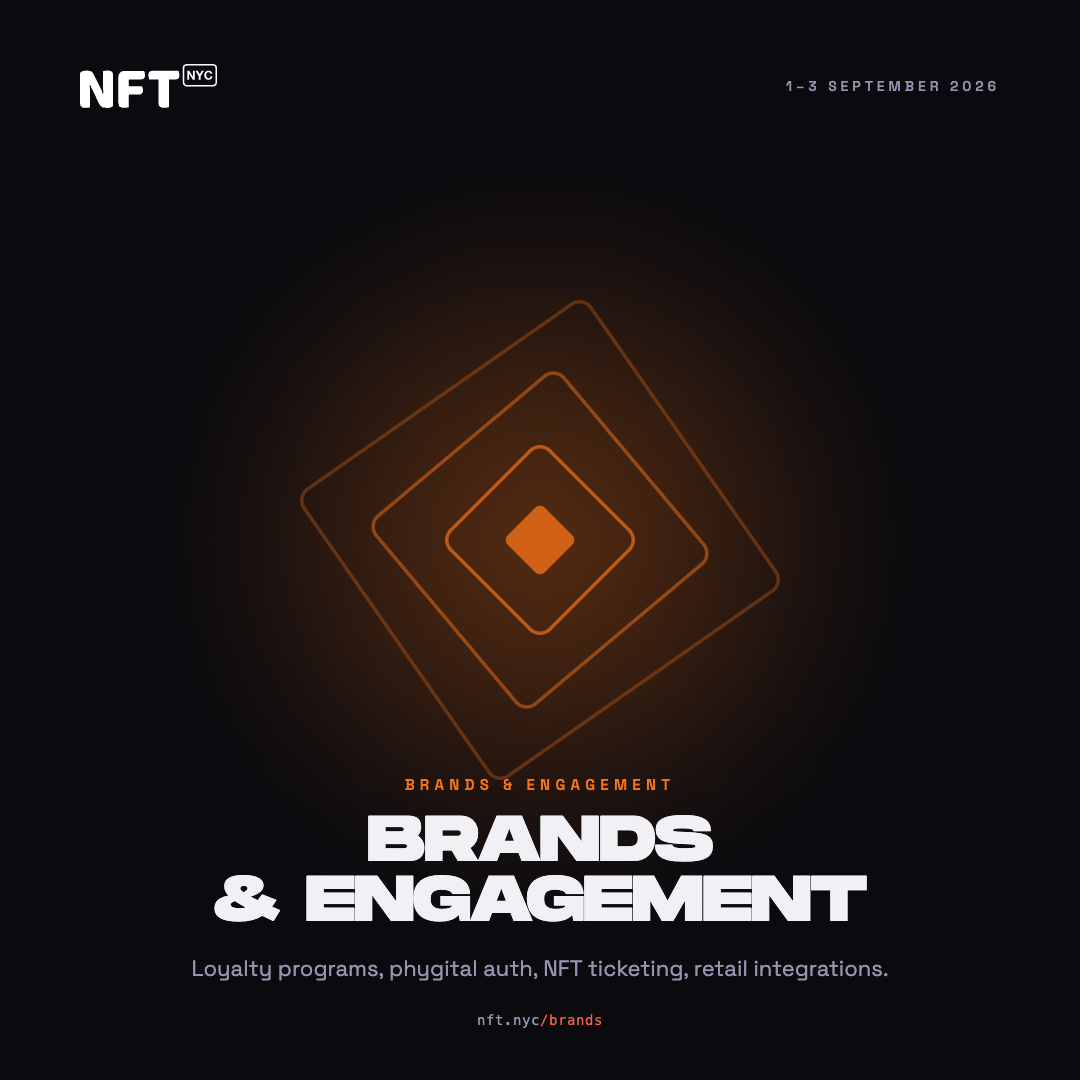
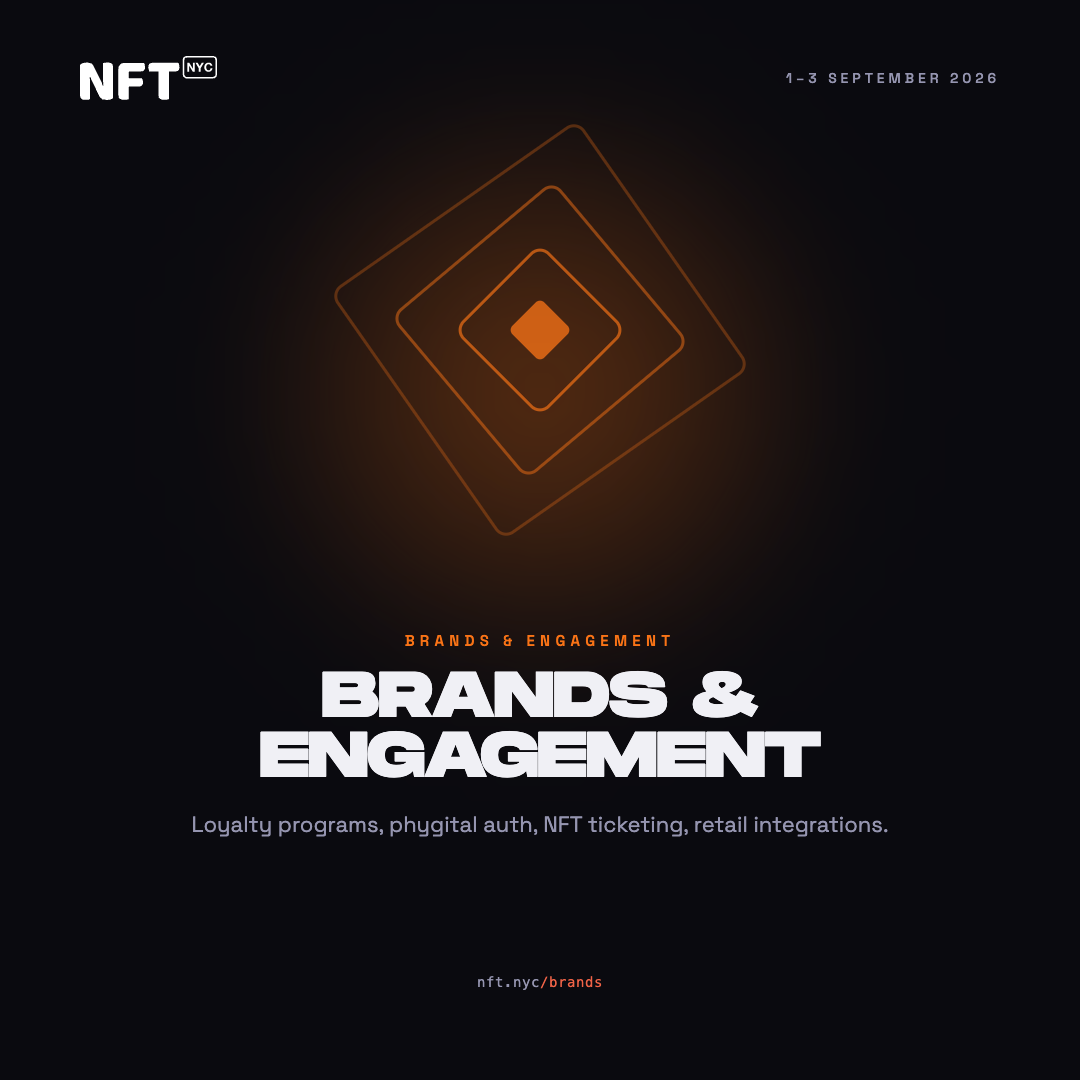
OG images: fix landscape overflow + lift square layout
- Remove nbsp in landscape h1 titles so they wrap on spaces
- Add JS auto-shrink for single-word overflow (Infrastructure, Marketplaces)
- Square: lift icon + copy up (aura top 160->50, copy bottom 96->240)
- Regenerate all 24 PNGs

diff --git a/public/og-render/index.html b/public/og-render/index.html
@@ -154,11 +154,11 @@
   }
   .og.square .aura {
     position: absolute;
-    top: 160px;
+    top: 50px;
     left: 50%;
     transform: translateX(-50%);
-    width: 760px;
-    height: 760px;
+    width: 680px;
+    height: 680px;
   }
   .og.square .aura::before {
     content: "";
@@ -170,14 +170,14 @@
   }
   .og.square .aura .icon-wrap {
     position: relative;
-    width: 560px;
-    height: 560px;
-    margin: 100px auto 0;
+    width: 480px;
+    height: 480px;
+    margin: 40px auto 0;
     opacity: 0.95;
   }
   .og.square .top {
     position: absolute;
-    top: 64px;
+    top: 56px;
     left: 80px;
     right: 80px;
     display: flex;
@@ -201,7 +201,7 @@
     position: absolute;
     left: 80px;
     right: 80px;
-    bottom: 96px;
+    bottom: 240px;
     text-align: center;
   }
   .og.square .eyebrow {
@@ -232,7 +232,7 @@
   .og.square .url {
     position: absolute;
     left: 50%;
-    bottom: 52px;
+    bottom: 90px;
     transform: translateX(-50%);
     font-family: var(--mono);
     font-size: 14px;
@@ -258,12 +258,12 @@
     infra:        { name: 'On-Chain Infrastructure',     subtitle: 'L1/L2, ZK Identity, Wallets',      color: '#06B6D4', shape: 'chain'   , h1: 'Onchain Infrastructure',           sub: 'Layer 1 + Layer 2 rollups, ZK identity, wallets, and NFT liquidity rails.' },
     social:       { name: 'Social NFTs',                 subtitle: 'Collaborative Art & Moots',        color: '#EC4899', shape: 'social'  , h1: 'Social NFTs',                      sub: 'Community-driven art, PFP culture, on-chain social graphs.' },
     creator:      { name: 'Creator Economy',             subtitle: 'Community-Owned IP',               color: '#F59E0B', shape: 'burst'   , h1: 'Creator Economy',                  sub: 'Community-owned IP, token-gated media, and NFT membership models.' },
-    defi:         { name: 'DeFi',                        subtitle: 'NFT Lending & Onchain Finance',    color: '#10B981', shape: 'bars'    , h1: 'NFT Lending &\u00A0Onchain\u00A0Finance', sub: 'Lending, yield, fractionalization, and liquidity for non-fungibles.' },
+    defi:         { name: 'DeFi',                        subtitle: 'NFT Lending & Onchain Finance',    color: '#10B981', shape: 'bars'    , h1: 'NFT Lending & Onchain Finance',    sub: 'Lending, yield, fractionalization, and liquidity for non-fungibles.' },
     rwa:          { name: 'RWA Tokenization',            subtitle: 'Real-World Assets Onchain',        color: '#EF4444', shape: 'pillars' , h1: 'RWA Tokenization',                 sub: 'Treasuries, real estate, commodities — trillions moving onchain.' },
-    brands:       { name: 'Brands & Engagement',         subtitle: 'Loyalty, Phygital, Ticketing',     color: '#F97316', shape: 'diamond' , h1: 'Brands &\u00A0Engagement',                sub: 'Loyalty programs, phygital auth, NFT ticketing, retail integrations.' },
-    culture:      { name: 'Culture, Art & Music',        subtitle: 'Communities, Attribution, Ownership', color: '#D946EF', shape: 'wave', h1: 'Culture, Art\u00A0&\u00A0Music', sub: 'PFP communities, generative art, music royalties, on-chain attribution.' },
+    brands:       { name: 'Brands & Engagement',         subtitle: 'Loyalty, Phygital, Ticketing',     color: '#F97316', shape: 'diamond' , h1: 'Brands & Engagement',              sub: 'Loyalty programs, phygital auth, NFT ticketing, retail integrations.' },
+    culture:      { name: 'Culture, Art & Music',        subtitle: 'Communities, Attribution, Ownership', color: '#D946EF', shape: 'wave', h1: 'Culture, Art & Music',              sub: 'PFP communities, generative art, music royalties, on-chain attribution.' },
     domains:      { name: 'DNS ENS Domain Tokens',       subtitle: 'Onchain Naming & Identity',        color: '#14B8A6', shape: 'orbit'   , h1: 'Domain Tokens',                    sub: 'ENS, DNS bridges, and human-readable identity for the onchain economy.' },
-    desci:        { name: 'DeSci · Longevity',           subtitle: 'Tokenized Science & Health',       color: '#84CC16', shape: 'helix'   , h1: 'DeSci &\u00A0Longevity',                  sub: 'Decentralized research funding, longevity IP, patient-owned health data.' },
+    desci:        { name: 'DeSci · Longevity',           subtitle: 'Tokenized Science & Health',       color: '#84CC16', shape: 'helix'   , h1: 'DeSci & Longevity',                sub: 'Decentralized research funding, longevity IP, patient-owned health data.' },
     marketplaces: { name: 'NFT Marketplaces',            subtitle: 'Royalty Infrastructure',           color: '#38BDF8', shape: 'rings'   , h1: 'NFT Marketplaces',                  sub: 'Royalty systems, creator coins, and new distribution mechanisms.' },
   };
 
@@ -352,7 +352,26 @@
         else img.addEventListener('load', r, { once: true });
       }),
     ]).then(() => {
-      document.documentElement.setAttribute('data-ready', '1');
+      // Auto-shrink h1 so long unbreakable words (e.g. INFRASTRUCTURE,
+      // MARKETPLACES) don't overflow the copy container.
+      const h1 = document.querySelector('h1');
+      const copy = document.querySelector('.copy');
+      if (h1 && copy) {
+        const maxWidth = copy.clientWidth;
+        let size = parseInt(getComputedStyle(h1).fontSize, 10);
+        const minSize = 36;
+        // scrollWidth reports content width ignoring container clipping,
+        // so if it exceeds the container width we need to shrink.
+        let guard = 0;
+        while (h1.scrollWidth > maxWidth && size > minSize && guard++ < 40) {
+          size -= 2;
+          h1.style.fontSize = size + 'px';
+        }
+      }
+      // Defer the ready flag by one frame so the layout settles.
+      requestAnimationFrame(() => {
+        document.documentElement.setAttribute('data-ready', '1');
+      });
     });
   }
 </script>
